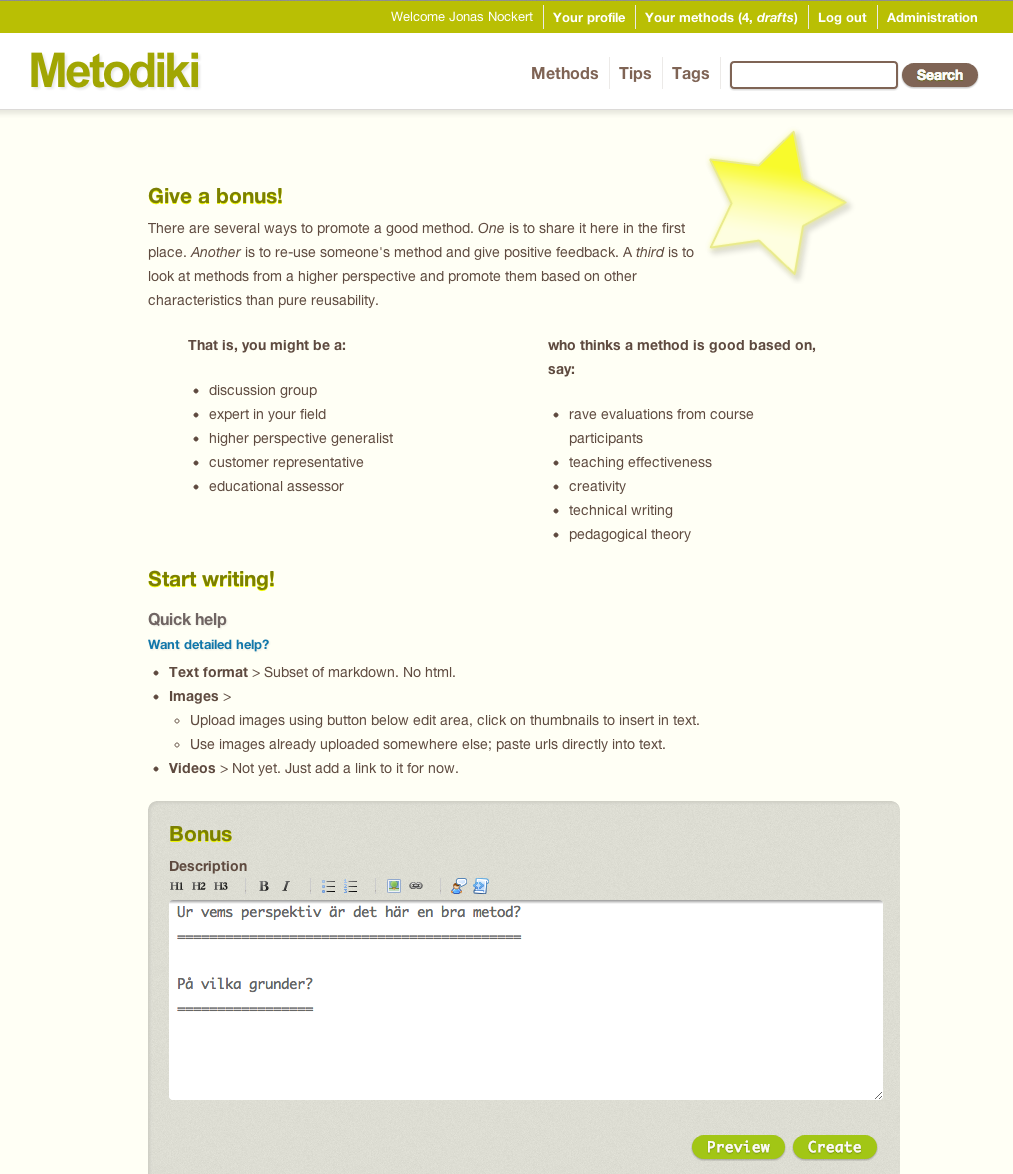
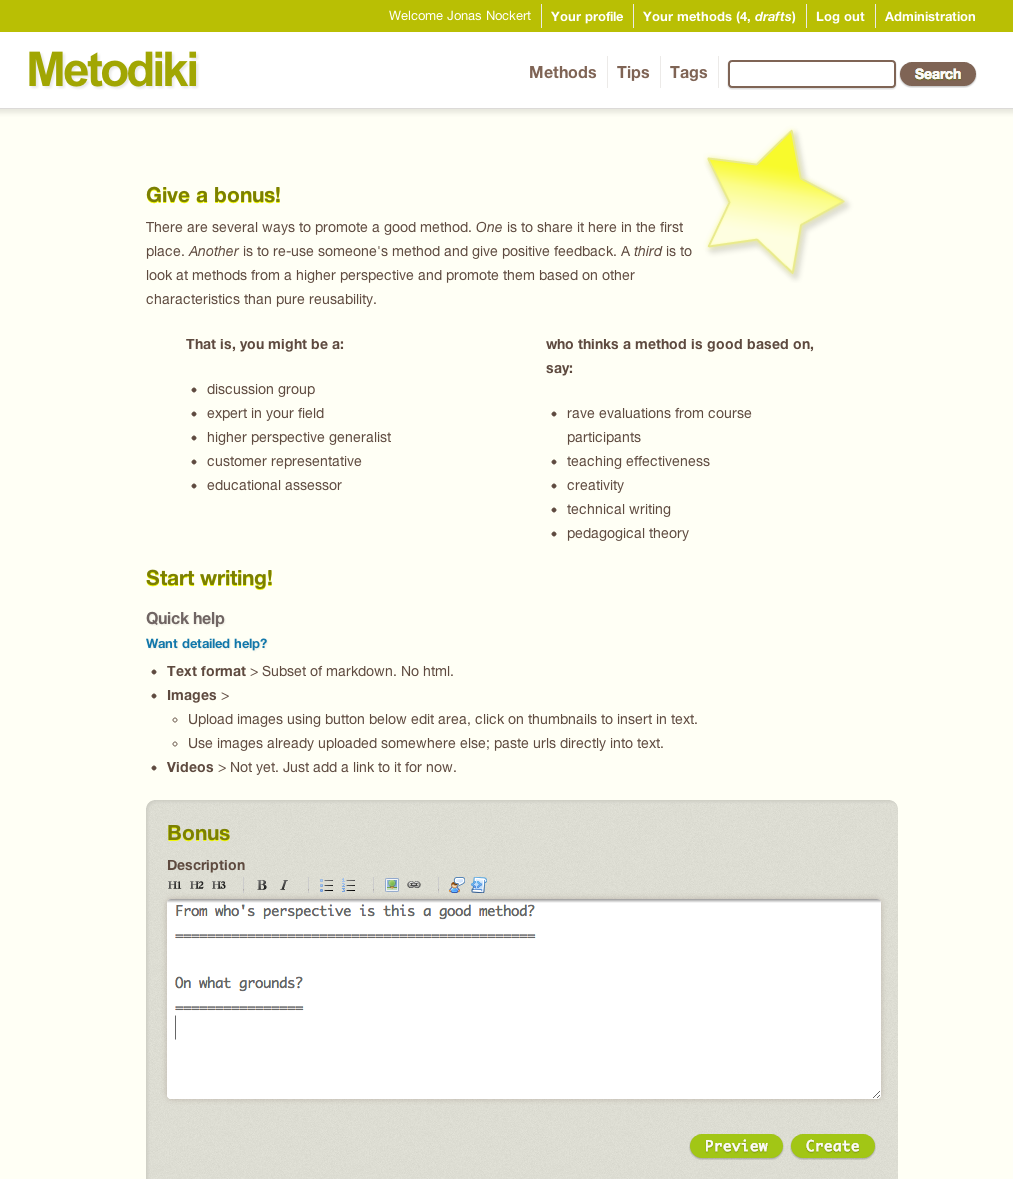
Had forgotten to translate input textarea in bonus screenshot

diff --git a/README.md b/README.md
@@ -60,7 +60,8 @@ Production server
 
 Screenshots
 -----------
+#### Award method bonuses
 ![Award method bonuses](http://github.com/lemonad/methodiki/raw/master/methodiki/static/images/screenshots/bonus.png)
 
-
+#### Give feedback to encourage the sharing and reusing of methods
 ![Give feedback on methods](http://github.com/lemonad/methodiki/raw/master/methodiki/static/images/screenshots/comment.png)
